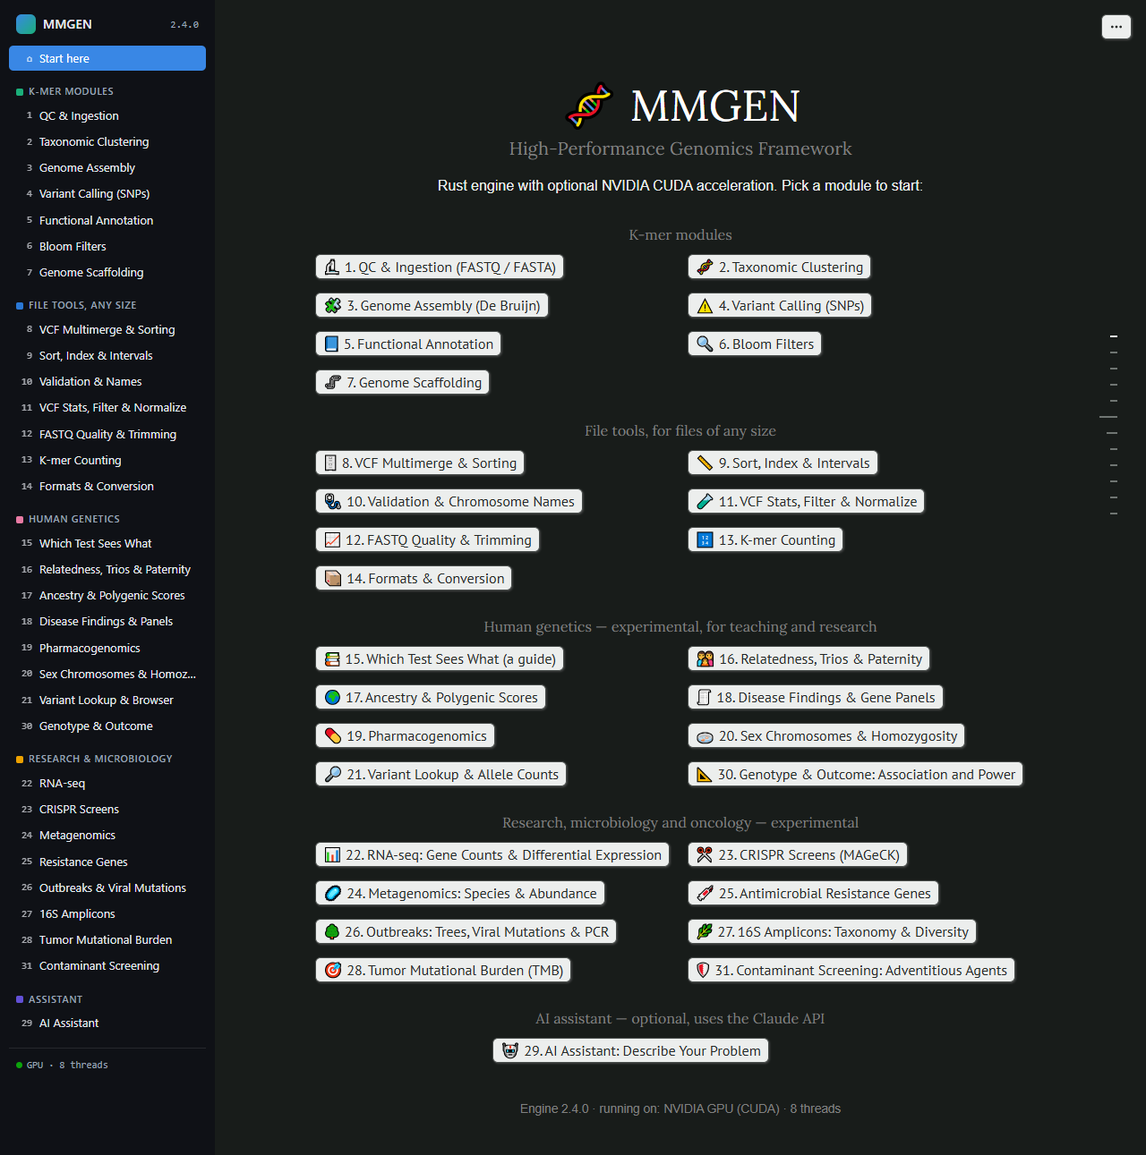
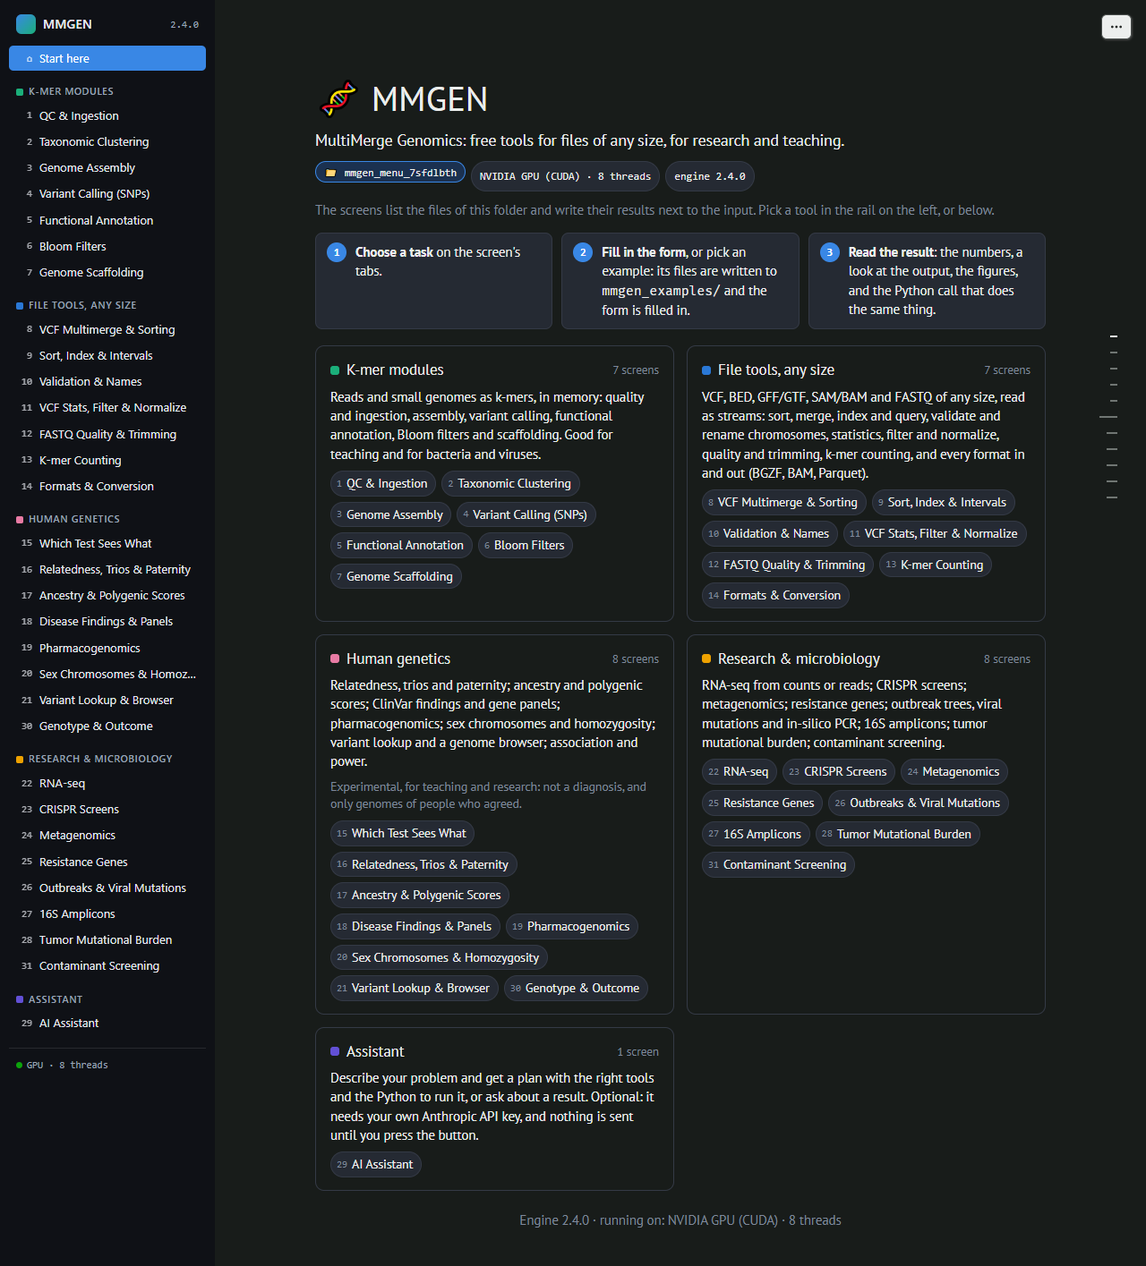
Start page of the workbench instead of the old menu grid
The start page describes the five groups of tools, with their screens as
links, the folder and the engine, and the three steps of a screen; the rail
on the left is the navigation. The grid of 31 buttons is gone.

Tests: test_ui 269/269, test_browser 229/229.

diff --git a/python/multimerge_genomics/ui_theme.css b/python/multimerge_genomics/ui_theme.css
@@ -47,6 +47,29 @@
   background: var(--mmg-rail); color: var(--mmg-rail-fg); font: 13px "Segoe UI", system-ui, sans-serif; cursor: pointer; }
 .mmg-rail-foot { margin-top: 14px; padding: 10px 8px 0; border-top: 1px solid var(--mmg-rail-line); color: var(--mmg-rail-fg-2); font: 11px/1.6 ui-monospace, Consolas, monospace; }
 .mmg-rail-foot .dot { display: inline-block; width: 7px; height: 7px; border-radius: 50%; background: #0ca30c; margin-right: 5px; }
+/* the start page (main_menu): what MMGEN is, the families of tools, how a screen works */
+.mmg-home { max-width: 1040px; margin: 0 auto; padding: 8px 0 24px; }
+.mmg-home .hero h1 { font-size: 2.4em; margin: 10px 0 4px; }
+.mmg-home .hero .tag { font-size: 1.1em; margin: 0 0 10px; }
+.mmg-home .hero .ctx { display: flex; flex-wrap: wrap; gap: 6px; margin: 0 0 10px; }
+.mmg-home .hero .hint, .mmg-home .foot { color: var(--mmg-fg-3); font-size: 0.92em; }
+.mmg-home .steps { display: grid; grid-template-columns: repeat(auto-fit, minmax(240px, 1fr)); gap: 10px; margin: 14px 0 18px; padding: 0; counter-reset: step; list-style: none; }
+.mmg-home .steps li { position: relative; padding: 10px 12px 10px 44px; border: 1px solid var(--mmg-line); border-radius: 8px; background: var(--mmg-surface-2); font-size: 0.92em; line-height: 1.45; }
+.mmg-home .steps li::before { counter-increment: step; content: counter(step); position: absolute; left: 12px; top: 10px; width: 22px; height: 22px; border-radius: 50%;
+  background: var(--mmg-accent); color: #fff; font: 600 12px/22px ui-monospace, Consolas, monospace; text-align: center; }
+.mmg-home .cards { display: grid; grid-template-columns: repeat(auto-fit, minmax(300px, 1fr)); gap: 14px; }
+.mmg-card { border: 1px solid var(--mmg-line); border-radius: 10px; padding: 14px 16px; min-width: 0; }
+.mmg-card h3 { display: flex; align-items: center; gap: 8px; margin: 0 0 6px; font-size: 1.05em; }
+.mmg-card h3 .sw { width: 10px; height: 10px; border-radius: 3px; flex: none; }
+.mmg-card h3 small { margin-left: auto; color: var(--mmg-fg-3); font-weight: 400; font-size: 0.78em; }
+.mmg-card p { margin: 0 0 8px; font-size: 0.92em; line-height: 1.45; }
+.mmg-card p.note { color: var(--mmg-fg-3); font-size: 0.85em; }
+.mmg-card .links { display: flex; flex-wrap: wrap; gap: 6px; }
+.mmg-card .links a { display: inline-flex; align-items: center; gap: 5px; padding: 3px 9px 3px 6px; border: 1px solid var(--mmg-line); border-radius: 999px;
+  background: var(--mmg-surface-2); color: inherit; text-decoration: none; font-size: 0.86em; white-space: nowrap; }
+.mmg-card .links a:hover { border-color: var(--mmg-accent); background: var(--mmg-accent-soft); }
+.mmg-card .links a .n { font: 11px ui-monospace, Consolas, monospace; color: var(--mmg-fg-3); }
+.mmg-home .foot { text-align: center; margin-top: 22px; }
 /* the form with the example's note beside it (form_with_note); one column on a phone */
 .mmg-form-note { display: grid; grid-template-columns: minmax(0, 3fr) minmax(0, 2fr); gap: 16px; align-items: start; }
 .mmg-form-note > .f, .mmg-form-note > .n { min-width: 0; }

diff --git a/python/multimerge_genomics/ui_head.html b/python/multimerge_genomics/ui_head.html
@@ -16,7 +16,7 @@
   const activePage = () => { const a = document.querySelector('.mmg-rail a.mmg-item.active'); return a ? a.dataset.page : 'home'; };
 
   document.addEventListener('click', (e) => {
-    const t = e.target && e.target.closest ? e.target.closest('.mmg-rail-toggle, .mmg-rail a[data-page]') : null;
+    const t = e.target && e.target.closest ? e.target.closest('.mmg-rail-toggle, .mmg-rail a[data-page], .mmg-home a[data-page]') : null;
     if (!t) {   // a tap outside the open drawer closes it
       const r = rail();
       if (r && r.classList.contains('open') && !(e.target.closest && e.target.closest('.mmg-rail'))) r.classList.remove('open');

diff --git a/python/multimerge_genomics/ui_main.py b/python/multimerge_genomics/ui_main.py
@@ -2038,143 +2038,58 @@ def workbench_header(RAIL_GROUPS, RAIL_HUMAN, get_page, mmg, mo, os):
 
 
 @app.cell
-def main_menu(get_page, mmg, mo, set_page):
+def main_menu(RAIL_GROUPS, get_page, mmg, mo, os):
     mo.stop(get_page() != "home")
-
-    btn_menu_qc = mo.ui.button(label="🔬 1. QC & Ingestion (FASTQ / FASTA)", on_change=lambda _: set_page("qc"))
-    btn_menu_cluster = mo.ui.button(label="🧬 2. Taxonomic Clustering", on_change=lambda _: set_page("cluster"))
-    btn_menu_assembly = mo.ui.button(label="🧩 3. Genome Assembly (De Bruijn)", on_change=lambda _: set_page("assembly"))
-    btn_menu_variant = mo.ui.button(label="⚠ 4. Variant Calling (SNPs)", on_change=lambda _: set_page("variant"))
-    btn_menu_annotation = mo.ui.button(label="📘 5. Functional Annotation", on_change=lambda _: set_page("annotation"))
-    btn_menu_bloom = mo.ui.button(label="🔍 6. Bloom Filters", on_change=lambda _: set_page("bloom"))
-    btn_menu_scaffold = mo.ui.button(label="🖇 7. Genome Scaffolding", on_change=lambda _: set_page("scaffold"))
-    btn_menu_vcf = mo.ui.button(label="🗄 8. VCF Multimerge & Sorting", on_change=lambda _: set_page("vcf"))
-    btn_menu_sort = mo.ui.button(label="📏 9. Sort, Index & Intervals", on_change=lambda _: set_page("sort"))
-    btn_menu_validate = mo.ui.button(label="🩺 10. Validation & Chromosome Names", on_change=lambda _: set_page("validate"))
-    btn_menu_vcftools = mo.ui.button(label="🧪 11. VCF Stats, Filter & Normalize", on_change=lambda _: set_page("vcftools"))
-    btn_menu_fastq = mo.ui.button(label="📈 12. FASTQ Quality & Trimming", on_change=lambda _: set_page("fastq"))
-    btn_menu_kmercount = mo.ui.button(label="🔢 13. K-mer Counting", on_change=lambda _: set_page("kmercount"))
-    btn_menu_convert = mo.ui.button(label="📦 14. Formats & Conversion", on_change=lambda _: set_page("convert"))
-    btn_menu_guide = mo.ui.button(label="📚 15. Which Test Sees What (a guide)", on_change=lambda _: set_page("guide"))
-    btn_menu_kin = mo.ui.button(label="👪 16. Relatedness, Trios & Paternity", on_change=lambda _: set_page("kin"))
-    btn_menu_anc = mo.ui.button(label="🌍 17. Ancestry & Polygenic Scores", on_change=lambda _: set_page("anc"))
-    btn_menu_findings = mo.ui.button(label="🧾 18. Disease Findings & Gene Panels", on_change=lambda _: set_page("findings"))
-    btn_menu_pgx = mo.ui.button(label="💊 19. Pharmacogenomics", on_change=lambda _: set_page("pgx"))
-    btn_menu_chrom = mo.ui.button(label="🧫 20. Sex Chromosomes & Homozygosity", on_change=lambda _: set_page("chrom"))
-    btn_menu_lookup = mo.ui.button(label="🔎 21. Variant Lookup & Allele Counts", on_change=lambda _: set_page("lookup"))
-    btn_menu_assoc = mo.ui.button(label="📐 30. Genotype & Outcome: Association and Power", on_change=lambda _: set_page("assoc"))
-    btn_menu_rnaseq = mo.ui.button(label="📊 22. RNA-seq: Gene Counts & Differential Expression", on_change=lambda _: set_page("rnaseq"))
-    btn_menu_crispr = mo.ui.button(label="✂ 23. CRISPR Screens (MAGeCK)", on_change=lambda _: set_page("crispr"))
-    btn_menu_meta = mo.ui.button(label="🦠 24. Metagenomics: Species & Abundance", on_change=lambda _: set_page("meta"))
-    btn_menu_amr = mo.ui.button(label="💉 25. Antimicrobial Resistance Genes", on_change=lambda _: set_page("amr"))
-    btn_menu_outbreak = mo.ui.button(label="🌳 26. Outbreaks: Trees, Viral Mutations & PCR", on_change=lambda _: set_page("outbreak"))
-    btn_menu_amplicon = mo.ui.button(label="🌿 27. 16S Amplicons: Taxonomy & Diversity", on_change=lambda _: set_page("amplicon"))
-    btn_menu_tmb = mo.ui.button(label="🎯 28. Tumor Mutational Burden (TMB)", on_change=lambda _: set_page("tmb"))
-    btn_menu_contam = mo.ui.button(label="🛡 31. Contaminant Screening: Adventitious Agents", on_change=lambda _: set_page("contam"))
-    btn_menu_ai = mo.ui.button(label="🤖 29. AI Assistant: Describe Your Problem", on_change=lambda _: set_page("ai"))
-
-    # What this installation really has: the GPU modules fall back to the CPU.
+    # The start page of the workbench: what MMGEN is, where it runs, the
+    # families of tools with their screens (links the rail's script handles,
+    # like the rail's own: ui_head.html) and how a screen works. Navigation
+    # itself is the rail on the left.
     _engine = mmg.engine_info()
     _where = "NVIDIA GPU (CUDA)" if _engine["gpu"] else "CPU"
-    # auto-fit: two columns on a wide screen, one on a phone (a fixed 1fr 1fr clipped every label at 390 px)
-    _grid = 'style="display: grid; grid-template-columns: repeat(auto-fit, minmax(280px, 1fr)); gap: 15px; max-width: 850px; margin: 0 auto;"'
-    _section = 'style="color: gray; margin: 30px 0 12px 0; text-align: center;"'
+    _folder = os.getcwd()
+    FAMILIES = {
+        "K-mer modules": ("Reads and small genomes as k-mers, in memory: quality and ingestion, assembly, variant calling, "
+                          "functional annotation, Bloom filters and scaffolding. Good for teaching and for bacteria and viruses.", ""),
+        "File tools, any size": ("VCF, BED, GFF/GTF, SAM/BAM and FASTQ of any size, read as streams: sort, merge, index and query, "
+                                 "validate and rename chromosomes, statistics, filter and normalize, quality and trimming, k-mer counting, "
+                                 "and every format in and out (BGZF, BAM, Parquet).", ""),
+        "Human genetics": ("Relatedness, trios and paternity; ancestry and polygenic scores; ClinVar findings and gene panels; "
+                           "pharmacogenomics; sex chromosomes and homozygosity; variant lookup and a genome browser; association and power.",
+                           "Experimental, for teaching and research: not a diagnosis, and only genomes of people who agreed."),
+        "Research & microbiology": ("RNA-seq from counts or reads; CRISPR screens; metagenomics; resistance genes; outbreak trees, "
+                                    "viral mutations and in-silico PCR; 16S amplicons; tumor mutational burden; contaminant screening.", ""),
+        "Assistant": ("Describe your problem and get a plan with the right tools and the Python to run it, or ask about a result. "
+                      "Optional: it needs your own Anthropic API key, and nothing is sent until you press the button.", ""),
+    }
 
-    menu_screen = mo.md(f"""
-    <div style="text-align: center; margin-top: 40px; font-family: sans-serif;">
-        <h1 style="font-size: 3em; margin-bottom: 0px; text-align: center;">🧬 MMGEN</h1>
-        <h3 style="color: gray; margin-top: 5px;">High-Performance Genomics Framework</h3>
-        <p style="margin-bottom: 10px;">Rust engine with optional NVIDIA CUDA acceleration. Pick a module to start:</p>
+    def _card(name, colour, items):
+        about, note = FAMILIES[name]
+        links = "".join(f'<a href="#{p}" data-page="{p}" data-n="{n}"><span class="n">{n}</span>{t}</a>' for p, n, t in items)
+        _note = f'<p class="note">{note}</p>' if note else ""
+        return (f'<section class="mmg-card"><h3><span class="sw" style="background:{colour}"></span>{name}'
+                f'<small>{len(items)} screen{"s" if len(items) > 1 else ""}</small></h3><p>{about}</p>{_note}<div class="links">{links}</div></section>')
 
-        <h4 {_section}>K-mer modules</h4>
-        <div {_grid}>
-            {btn_menu_qc}
-            {btn_menu_cluster}
-            {btn_menu_assembly}
-            {btn_menu_variant}
-            {btn_menu_annotation}
-            {btn_menu_bloom}
-            {btn_menu_scaffold}
-        </div>
-
-        <h4 {_section}>File tools, for files of any size</h4>
-        <div {_grid}>
-            {btn_menu_vcf}
-            {btn_menu_sort}
-            {btn_menu_validate}
-            {btn_menu_vcftools}
-            {btn_menu_fastq}
-            {btn_menu_kmercount}
-            {btn_menu_convert}
-        </div>
-
-        <h4 {_section}>Human genetics — experimental, for teaching and research</h4>
-        <div {_grid}>
-            {btn_menu_guide}
-            {btn_menu_kin}
-            {btn_menu_anc}
-            {btn_menu_findings}
-            {btn_menu_pgx}
-            {btn_menu_chrom}
-            {btn_menu_lookup}
-            {btn_menu_assoc}
-        </div>
-
-        <h4 {_section}>Research, microbiology and oncology — experimental</h4>
-        <div {_grid}>
-            {btn_menu_rnaseq}
-            {btn_menu_crispr}
-            {btn_menu_meta}
-            {btn_menu_amr}
-            {btn_menu_outbreak}
-            {btn_menu_amplicon}
-            {btn_menu_tmb}
-            {btn_menu_contam}
-        </div>
-
-        <h4 {_section}>AI assistant — optional, uses the Claude API</h4>
-        <div style="display: grid; grid-template-columns: 1fr; gap: 15px; max-width: 420px; margin: 0 auto;">
-            {btn_menu_ai}
-        </div>
-        <p style="color: gray; font-size: 0.85em; margin-top: 40px;">Engine {_engine["version"]} · running on: {_where} · {_engine["threads"]} threads</p>
+    _cards = "".join(_card(_name, _colour, _items) for _name, _colour, _items in RAIL_GROUPS)
+    mo.Html(f"""
+    <div class="mmg-home">
+      <header class="hero">
+        <h1>🧬 MMGEN</h1>
+        <p class="tag">MultiMerge Genomics: free tools for files of any size, for research and teaching.</p>
+        <p class="ctx"><span class="mmg-chip ctx" title="{_folder}">📁 {os.path.basename(_folder) or _folder}</span>
+           <span class="mmg-chip">{_where} · {_engine["threads"]} threads</span><span class="mmg-chip">engine {_engine["version"]}</span></p>
+        <p class="hint">The screens list the files of this folder and write their results next to the input.
+           Pick a tool in the rail on the left, or below.</p>
+      </header>
+      <ol class="steps">
+        <li><b>Choose a task</b> on the screen's tabs.</li>
+        <li><b>Fill in the form</b>, or pick an example: its files are written to <code>mmgen_examples/</code> and the form is filled in.</li>
+        <li><b>Read the result</b>: the numbers, a look at the output, the figures, and the Python call that does the same thing.</li>
+      </ol>
+      <div class="cards">{_cards}</div>
+      <p class="foot">Engine {_engine["version"]} · running on: {_where} · {_engine["threads"]} threads</p>
     </div>
     """)
-
-    menu_screen
-    return (
-        btn_menu_ai,
-        btn_menu_amr,
-        btn_menu_outbreak,
-        btn_menu_amplicon,
-        btn_menu_tmb,
-        btn_menu_anc,
-        btn_menu_annotation,
-        btn_menu_assoc,
-        btn_menu_crispr,
-        btn_menu_meta,
-        btn_menu_assembly,
-        btn_menu_bloom,
-        btn_menu_chrom,
-        btn_menu_contam,
-        btn_menu_kin,
-        btn_menu_cluster,
-        btn_menu_convert,
-        btn_menu_fastq,
-        btn_menu_findings,
-        btn_menu_guide,
-        btn_menu_lookup,
-        btn_menu_pgx,
-        btn_menu_kmercount,
-        btn_menu_qc,
-        btn_menu_rnaseq,
-        btn_menu_scaffold,
-        btn_menu_sort,
-        btn_menu_validate,
-        btn_menu_variant,
-        btn_menu_vcf,
-        btn_menu_vcftools,
-        menu_screen,
-    )
+    return
 
 
 @app.cell

diff --git a/trials/python/test_browser.py b/trials/python/test_browser.py
@@ -286,15 +286,21 @@ def page(browser):
     pg.on("pageerror", lambda e: js_errors.append(str(e)))
     pg.on("console", lambda m: js_errors.append(m.text) if m.type == "error" else None)
     pg.goto(URL, wait_until="domcontentloaded")
-    menu_button(pg, 1).wait_for(timeout=90000)
+    home(pg).wait_for(timeout=90000)
     try:
         yield pg
     finally:
         pg.close()
 
 
+def home(pg):
+    """The start page: the families of tools with their screens as links (the rail is on every page)."""
+    return pg.locator(".mmg-home")
+
+
 def menu_button(pg, n):
-    return pg.get_by_role("button", name=MENU[n][0])
+    """The link of screen n on the start page (a button before the workbench layout)."""
+    return pg.locator(f'.mmg-home a[data-n="{n}"]')
 
 
 def back(pg):
@@ -443,32 +449,32 @@ try:
         print("== navigation")
         with page(browser) as pg:
             check("tab title: MMGEN Suite", pg.title() == "MMGEN Suite", pg.title())
-            check(f"the menu shows the {len(MENU)} modules", all(menu_button(pg, n).is_visible() for n in MENU))
+            check(f"the start page links the {len(MENU)} screens", all(menu_button(pg, n).is_visible() for n in MENU))
             t = text_of(pg)
-            check("the menu says where the engine runs", "running on:" in t and WHERE in t, t[-200:])
+            check("the start page says where the engine runs", "running on:" in t and WHERE in t, t[-200:])
             check("menu: no Portuguese left on the page", not PORTUGUESE.search(t), PORTUGUESE.findall(t))
             shot(pg, "menu")
             for n, (_, title) in MENU.items():
                 enter(pg, n)
                 t = text_of(pg)
                 check(f"screen {n}: opens, with its title drawn as a heading", pg.locator("h1", has_text=title).count() >= 1, t[:200])
-                check(f"screen {n}: the menu leaves the page", not any(menu_button(pg, m).is_visible() for m in MENU))
+                check(f"screen {n}: the start page leaves the page", home(pg).count() == 0)
                 check(f"screen {n}: no Portuguese left on the page", not PORTUGUESE.search(t), PORTUGUESE.findall(t))
                 shot(pg, f"screen{n}_empty")
                 back(pg).click()
                 try:
-                    menu_button(pg, 1).wait_for(timeout=30000)
+                    home(pg).wait_for(timeout=30000)
                 except Exception:
                     pass
                 pg.wait_for_timeout(400)
-                check(f"screen {n}: 'Back to Menu' brings the menu back and removes the screen",
-                      menu_button(pg, 1).is_visible() and not back(pg).is_visible() and pg.locator("h1", has_text=title).count() == 0)
+                check(f"screen {n}: 'Back to Menu' brings the start page back and removes the screen",
+                      home(pg).is_visible() and not back(pg).is_visible() and pg.locator("h1", has_text=title).count() == 0)
 
         print("== the rail of tools (ui_theme.css + ui_head.html)")
         with page(browser) as pg:
             rail = pg.locator(".mmg-rail a.mmg-item")
             check(f"the rail lists the {len(MENU)} screens and 'Start here'", rail.count() == len(MENU) + 1, rail.count())
-            check("the rail is visible beside the menu", pg.locator(".mmg-rail").is_visible())
+            check("the rail is visible beside the start page", pg.locator(".mmg-rail").is_visible())
             pg.locator(".mmg-rail a.mmg-item[data-page='sort']").click()
             back(pg).wait_for(timeout=30000)
             pg.wait_for_timeout(600)
@@ -482,7 +488,7 @@ try:
             check("the rail switches from one screen to another", pg.locator("h1", has_text=MENU[9][1]).count() == 0 and pg.evaluate("() => location.hash") == "#fastq")
             shot(pg, "rail_screen12")
             back(pg).click()
-            menu_button(pg, 1).wait_for(timeout=30000)
+            home(pg).wait_for(timeout=30000)
             pg.wait_for_timeout(500)
             check("'Back to Menu' clears the address", pg.evaluate("() => location.hash") == "")
             pg.set_viewport_size({"width": 390, "height": 844})

diff --git a/trials/python/test_ui.py b/trials/python/test_ui.py
@@ -611,10 +611,15 @@ r = cell_run(ui.workbench_rail, get_page=lambda: "sort", set_page=lambda _: None
 check("  the rail lists the 31 screens as links, the open one marked",
       not isinstance(r, BaseException) and raw(r).count('class="mmg-item') == 32 and 'class="mmg-item active" href="#sort"' in raw(r)
       and raw(r).count("mmg-rail-bridge") == 1, raw(r)[:300])
-_rail_pages = {p for _, _, items in r[1]["RAIL_GROUPS"] for p, _, _ in items}
-_menu_pages = set(re.findall(r'set_page\("(\w+)"\)', ui.main_menu._cell.code)) - {"home"}
-check("  every screen of the menu is in the rail, and only those", _rail_pages == _menu_pages, sorted(_rail_pages ^ _menu_pages))
-r = cell_run(ui.workbench_header, RAIL_GROUPS=r[1]["RAIL_GROUPS"], RAIL_HUMAN=r[1]["RAIL_HUMAN"], get_page=lambda: "pgx")
+_rail = r[1]
+_rail_pages = {p for _, _, items in _rail["RAIL_GROUPS"] for p, _, _ in items}
+_menu_pages = {p for p, _ in examples[1]["EXAMPLES"]} | {"guide"}   # every screen has examples but the guide
+check("  every screen is in the rail, and only those", _rail_pages == _menu_pages, sorted(_rail_pages ^ _menu_pages))
+r = cell_run(ui.main_menu, RAIL_GROUPS=_rail["RAIL_GROUPS"], get_page=lambda: "home")
+check("  the start page: the families with their screens as links, the folder, the engine",
+      not isinstance(r, BaseException) and raw(r).count('class="mmg-card"') == 5 and raw(r).count("data-page=") == 31
+      and "running on:" in shown(r) and os.path.basename(os.getcwd()) in shown(r), raw(r)[:300])
+r = cell_run(ui.workbench_header, RAIL_GROUPS=_rail["RAIL_GROUPS"], RAIL_HUMAN=_rail["RAIL_HUMAN"], get_page=lambda: "pgx")
 check("  the header strip: group, screen, folder and the human-genome chip",
       not isinstance(r, BaseException) and "Human genetics" in shown(r) and "19. Pharmacogenomics" in shown(r)
       and os.path.basename(os.getcwd()) in shown(r) and "human genome" in shown(r), shown(r)[:300])

diff --git a/README.md b/README.md
@@ -318,7 +318,7 @@ pip install "multimerge-genomics[ui]"     # or, after maturin develop: pip insta
 mmgen-ui                                 # or: marimo run python/multimerge_genomics/ui_main.py
 ```
 
-The interface lists the files of the folder it is started from, and writes its results next to their input. The menu has five groups: the k-mer modules (1–7), the file tools (8–14), human genetics (15–21 and 30), research, microbiology and oncology (22–28 and 31), and the optional AI assistant (29). The same groups are always at hand in the rail on the left (a drawer, on a phone), so you can go from one tool to another without passing through the menu; a strip above each screen says where you are, which folder the files come from and where the engine runs. The address keeps the screen (`#sort`, `#pgx`...): bookmark it, reload, or share it with someone on the same machine. On most screens you pick a task (the tabs under the title), fill in a form and get the result with a look at the first records of the output; when you pick an example, its note (what it shows, what to expect) sits beside the form; leave an output name blank and one is made from the input name. **Refresh the file list** picks up files written since the screen was opened.
+The interface lists the files of the folder it is started from, and writes its results next to their input. The rail on the left (a drawer, on a phone) holds the five groups of tools, always at hand: the k-mer modules (1–7), the file tools (8–14), human genetics (15–21 and 30), research, microbiology and oncology (22–28 and 31), and the optional AI assistant (29). The start page describes each group and links its screens; a strip above each screen says where you are, which folder the files come from and where the engine runs. The address keeps the screen (`#sort`, `#pgx`...): bookmark it, reload, or share it with someone on the same machine. On most screens you pick a task (the tabs under the title), fill in a form and get the result with a look at the first records of the output; when you pick an example, its note (what it shows, what to expect) sits beside the form; leave an output name blank and one is made from the input name. **Refresh the file list** picks up files written since the screen was opened.
 
 **Every screen has ready-made examples.** Pick one in the **Try an example** list and the form is filled in, with a note on what the example shows and what to expect; submit it as it is, or change a field first. There are 138 of them, at least one for every task (the five of screen 29 need an API key): a genome assembled into one contig, a patient's 3 SNPs found as 93 k-mers, a circular plasmid closed from 4 contigs, indels left-aligned in repeats, a VCF with planted defects for the validator, GRCh38 against GRCh37, reads with an adapter to trim, the k-mer spectrum of reads at 30× coverage, and so on. The files of screens 1–14 are small and simulated (no real person or organism), written into a `mmgen_examples/` folder the first time an example is picked, in about two seconds; nothing is downloaded. The examples of screens 16–28 use public data (the Genome in a Bottle trios, ClinVar, the 1000 Genomes Project, the airway RNA-seq experiment, the MAGeCK demos, mock microbial communities, bacterial isolates, SARS-CoV-2 lineages, a tumor cell line): demo packs, `mmgen_demo_human_v3.zip` (49 MB), `mmgen_demo_research_v4.zip` (46 MB) and, for the CYP2D6 and HLA example of screen 19, `mmgen_demo_pgx_v1.zip` (32 MB of HG002 reads), downloaded from the release the first time an example needs them (or taken from the folder the interface runs in) and unpacked into `mmgen_examples/`. The 16S examples of screen 27 use a third pack, `mmgen_demo_16s_v2.zip` (17 MB): the mothur MiSeq SOP reads (Kozich et al. 2013), redistributed with the permission of Patrick D. Schloss, and an RDP classifier.
 
